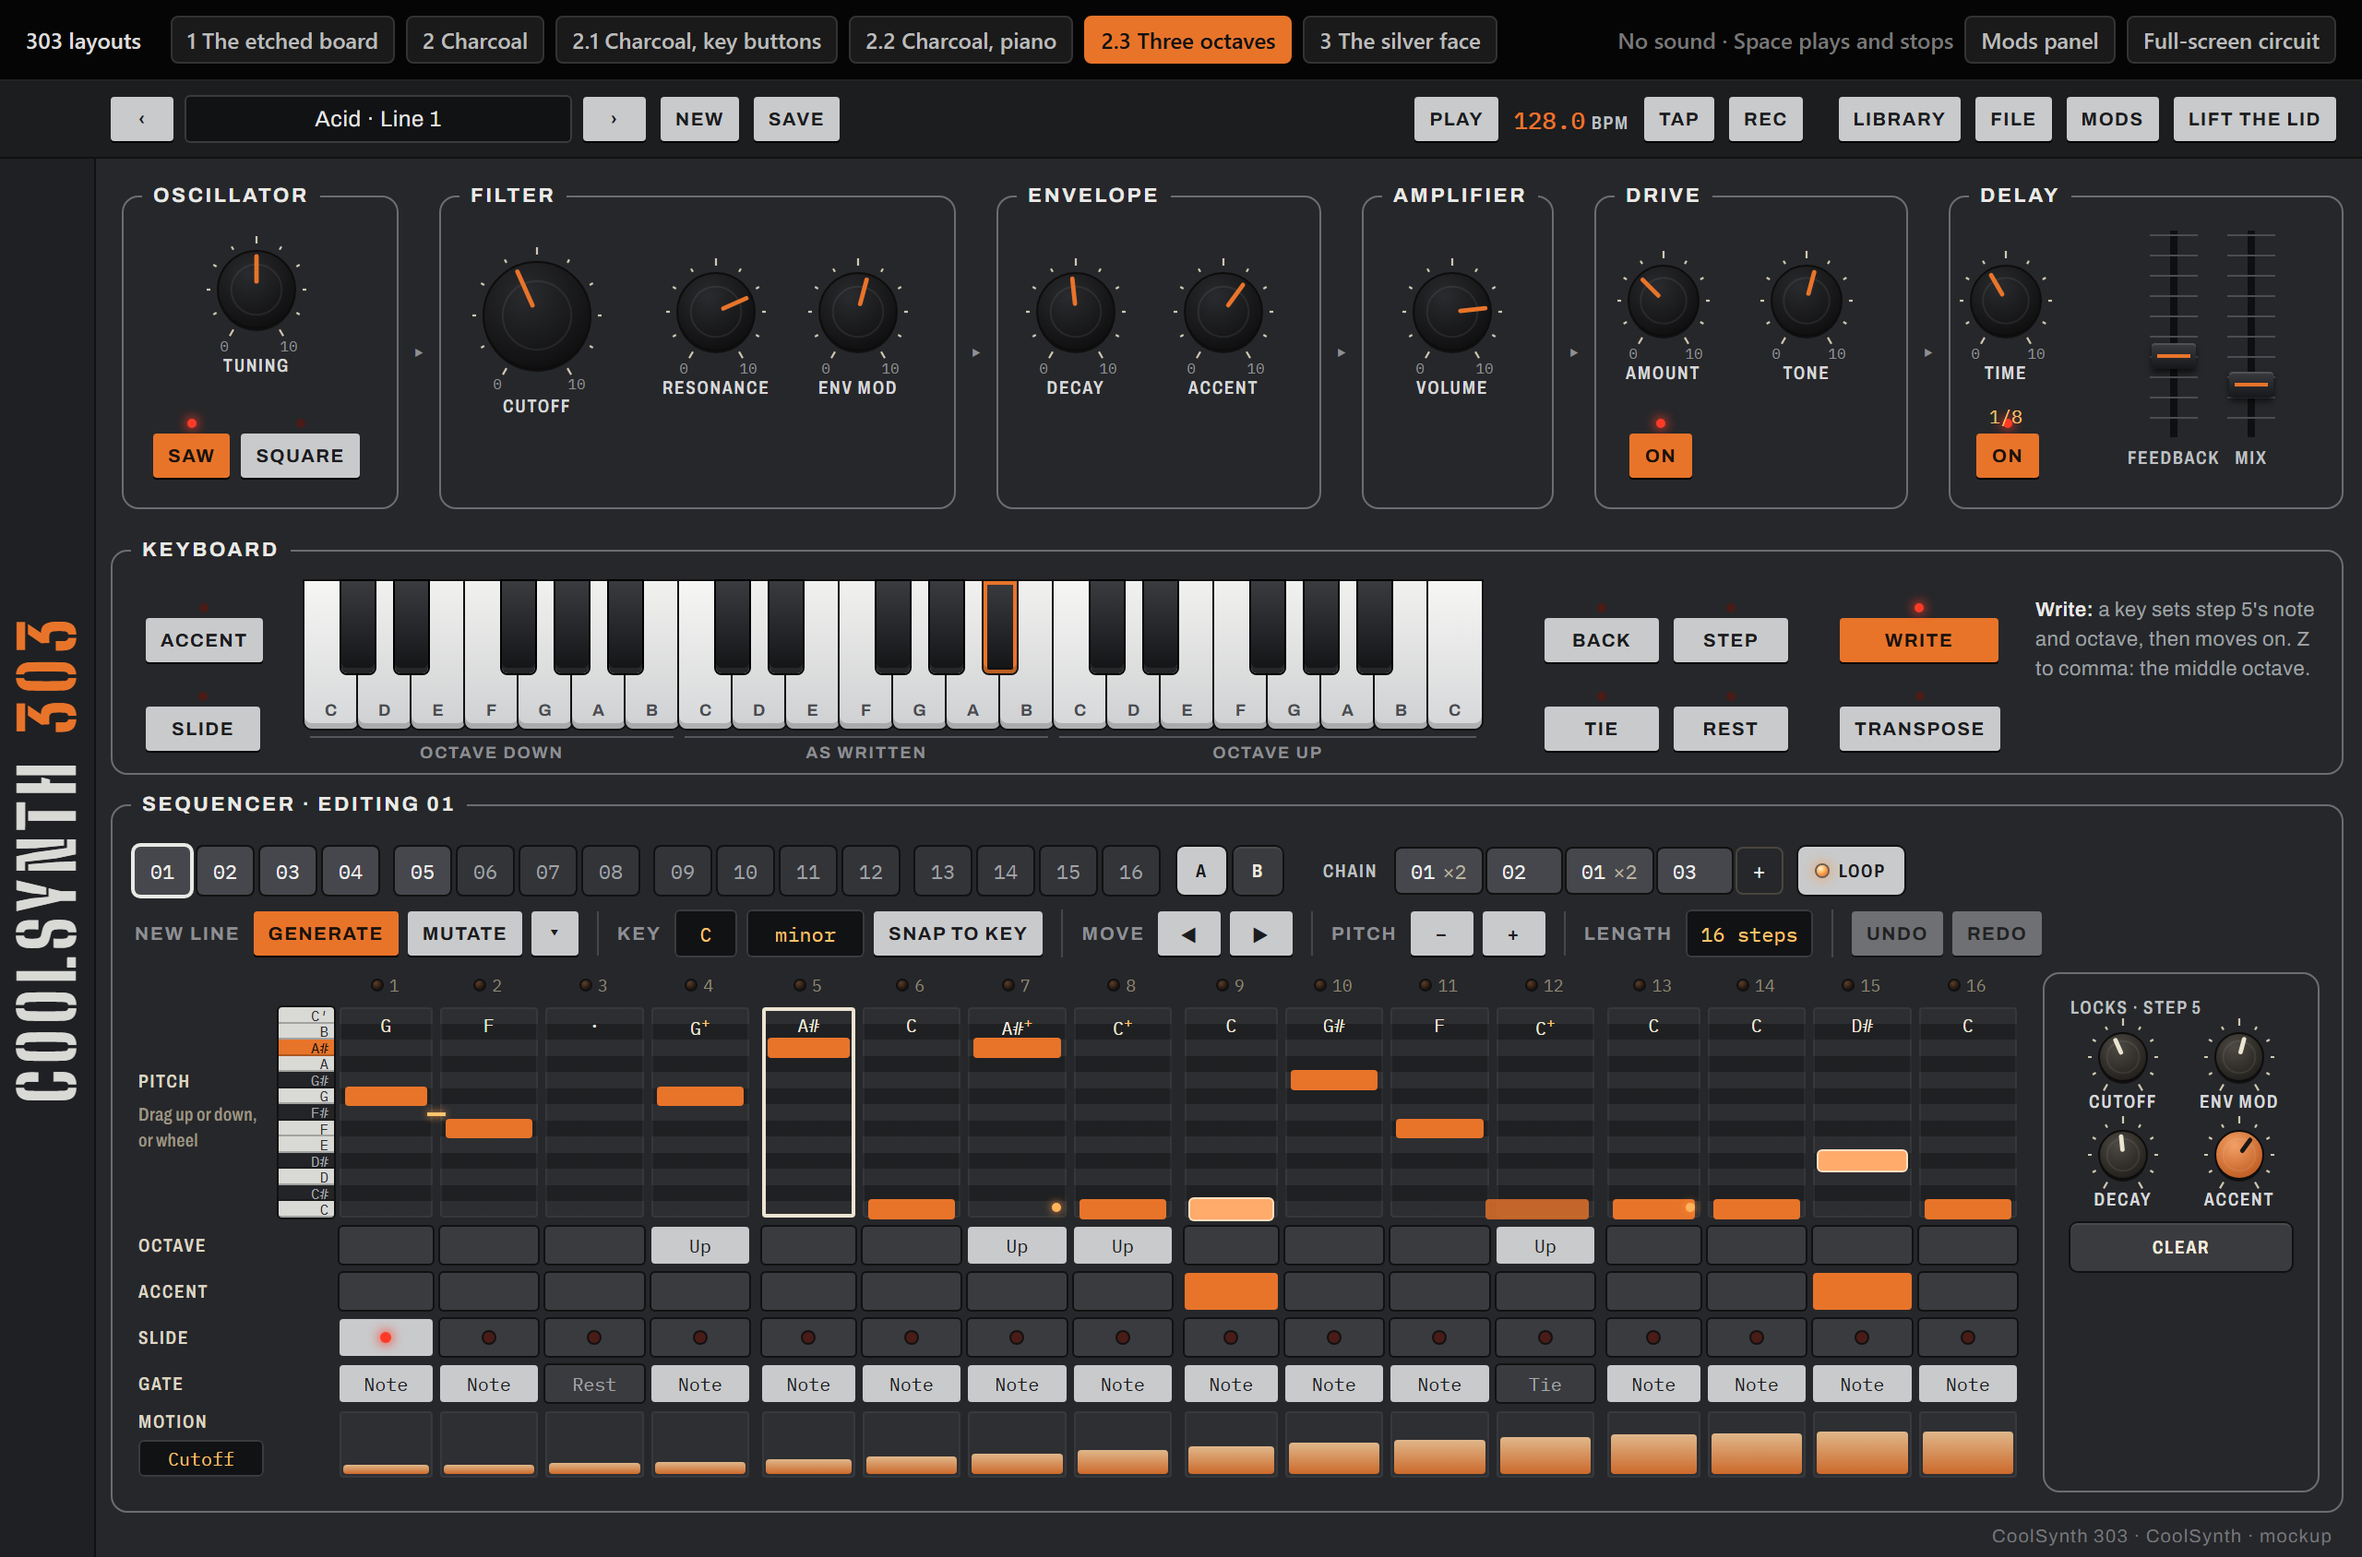
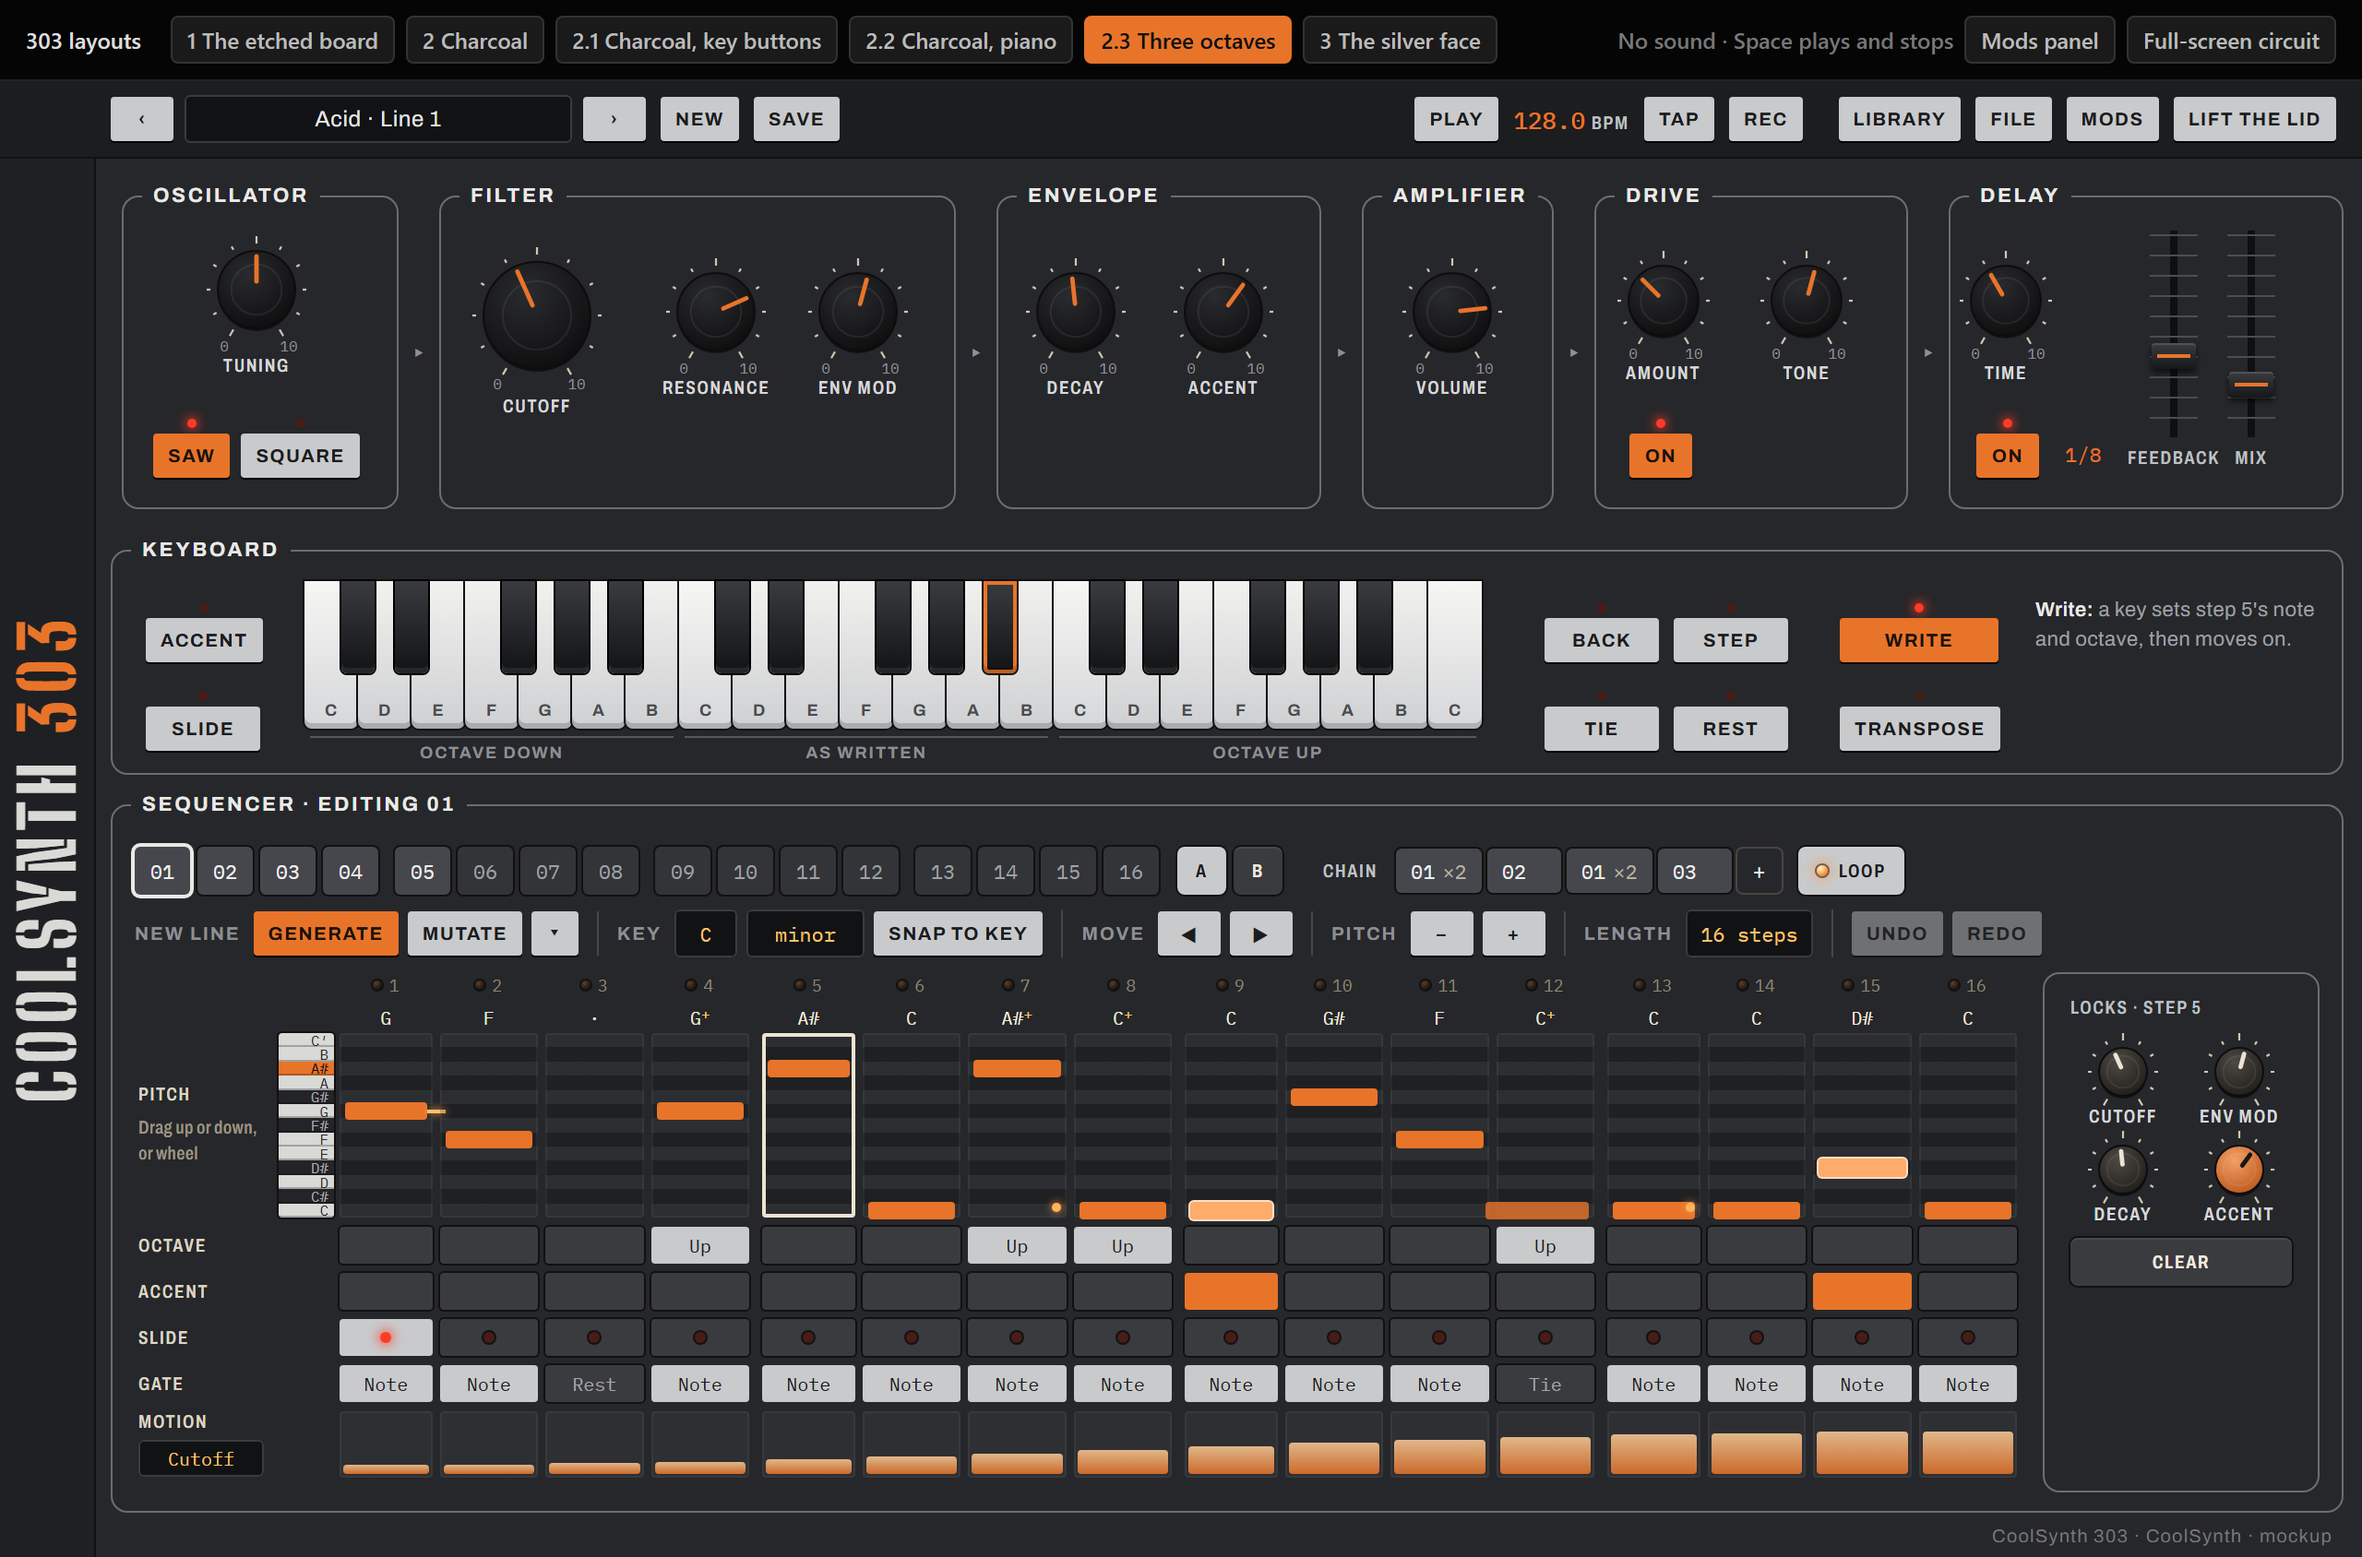
CoolSynth 303 mockup: 2.3's misplaced text and the overlapping lamp fixed
The delay's time value sat on its On lamp: it now sits beside the key. Each step's note name moved out of the
pitch lane's top row into a row of its own; the slide mark sits at the note's height; the locks title clears its
knobs; the keyboard's hint is one sentence. Found from the screenshots at the user's request.

diff --git a/docs/design/mockups/coolsynth-303-layouts.html b/docs/design/mockups/coolsynth-303-layouts.html
@@ -302,7 +302,14 @@ canvas.board { display: block; position: absolute; }
 .tal .piano.three .pw.oc { background: linear-gradient(#f6f6f4, #d6d7d9); }
 .tal .octcap { position: absolute; font-size: 9px; font-weight: 700; letter-spacing: .1em; text-transform: uppercase; color: #8c8e93; text-align: center;
   border-top: 1px solid #55575c; padding-top: 3px; }
+.tal .tval { font-family: var(--mono); font-size: 11px; color: #e8742a; }
 #v6 .main { grid-template-columns: 1fr 150px; }
+#v6 .side .tknobs { margin-top: 8px; }
+#v6 .pcol .nn { display: none; }
+.tal .nrow { margin-bottom: -3px; }
+.tal .nrow span { text-align: center; font-family: var(--mono); font-size: 10px; color: #f1ebde; line-height: 12px; height: 12px; }
+.tal .nrow span sup { font-size: 8px; color: var(--lit); vertical-align: 0; position: relative; top: -3px; line-height: 0; }
+.tal .nrow span.off { opacity: .35; }
 #v6 .grid { grid-template-columns: 108px 1fr; }
 #v6 .side .tknobs { display: grid; grid-template-columns: 1fr 1fr; gap: 10px 6px; justify-items: center; }
 .tal .pnames { position: relative; width: 30px; flex: none; align-self: stretch; margin-left: auto; border-radius: 2px; overflow: hidden; box-shadow: 0 0 0 1px #111; }
@@ -796,8 +803,14 @@ function buildGrid(host, rowH = 22, pitchH = 150, motionH = 40, names = false) {
   }
   const plbl = el('div', '', '<div class="lbl" style="color:#ddd5c3">Pitch</div><div class="lbl" style="margin-top:6px;text-transform:none;letter-spacing:.02em;line-height:1.4;color:#9d9583">Drag up or down,<br>or wheel</div>');
   // 2.3: the lane's notes down its left edge, as a piano roll's keys; the picked step's note lit
-  let nameCells = null;
+  let nameCells = null, nrowCells = null;
   if (names) {
+    // each step's note and octave in a row of its own above the lane, out of the lane's top row
+    const nrow = el('div', 'cols16 nrow'); nrowCells = [];
+    for (let i = 0; i < 16; i++) { const s = el('span', ''); nrowCells.push(s); nrow.append(s); }
+    host.append(el('div', 'rl'), nrow);
+    painters.push(() => { const p = shown(); nrowCells.forEach((s, i) => { const x = p.steps[i];
+      s.innerHTML = x.g === 'rest' ? '·' : NAMES[x.n12 ? 12 : x.n] + (x.n12 ? '′' : '') + (x.o > 0 ? '<sup>+</sup>' : x.o < 0 ? '<sup>−</sup>' : ''); s.classList.toggle('off', i >= p.len); }); });
     const wrap = el('div', ''); wrap.style.cssText = 'display:flex;align-self:stretch;width:100%;gap:6px';
     const strip = el('div', 'pnames'); nameCells = [];
     for (let n = 0; n <= 12; n++) { const s = el('span', [1, 3, 6, 8, 10].includes(n) ? 's' : '', NAMES[n] + (n === 12 ? '′' : '')); s.style.bottom = `calc(${n} * 100% / 13)`; nameCells.push(s); strip.append(s); }
@@ -837,6 +850,8 @@ function buildGrid(host, rowH = 22, pitchH = 150, motionH = 40, names = false) {
     cols.forEach((c, i) => {
       const x = p.steps[i];
       c.querySelector('.cap').style.bottom = `calc(${(x.n12 ? 12 : x.n) / 13 * 100}% - 1px)`;
+      // the slide's mark at the note's own height, leading to the next step
+      { const sl = c.querySelector('.sl'); sl.style.top = 'auto'; sl.style.bottom = `calc(${((x.n12 ? 12 : x.n) + .5) / 13 * 100}% - 1px)`; }
       c.querySelector('.nn').innerHTML = x.g === 'rest' ? '·' : NAMES[x.n12 ? 12 : x.n] + (x.o > 0 ? '<sup>+</sup>' : x.o < 0 ? '<sup>−</sup>' : '');
       c.classList.toggle('acc', x.a); c.classList.toggle('slide', x.s && x.g !== 'rest');
       c.classList.toggle('tie', x.g === 'tie'); c.classList.toggle('rest', x.g === 'rest');
@@ -1196,7 +1211,9 @@ function build2(vid = 'v2') {
   const s6 = sect('Delay', 996, 214);
   at(s6, talBtn('On', 'delayOn'), 14, 120);
   const times = ['1/16', '1/8', '3/16', '1/4'];
-  at(s6, kt('Time', 'time', 40, { live: false, fmt: v => times[Math.round(v * 3)] }), 10, 36);
+  at(s6, kt('Time', 'time', 40, { live: false }), 10, 36);
+  // the time's note value beside the On key, clear of its lamp
+  { const tv = el('span', 'tval'); tv.title = 'The delay\'s time, in notes'; at(s6, tv, 62, 132); painters.push(() => { tv.textContent = times[Math.round(S.k.time * 3)]; }); }
   at(s6, fader('Feedback', 'fb'), 96, 18); at(s6, fader('Mix', 'mix'), 150, 18);
   new Board($('b' + vid.slice(1)), rowLayout(20, 1190, 24, 166, true), 'etchedDark', { visible: () => root.classList.contains('lifted') });
   buildMods($(vid + 'mods'), 'tal');
@@ -1218,7 +1235,7 @@ function talMarkup(vid, kind) {
     <div class="row"><div data-prow></div><div data-ab></div><span class="lbl" style="margin-left:12px">Chain</span><div data-chain></div></div>
     <div data-tools2></div>
     <div class="main">${kind === 'three'
-      ? '<div data-grid="114" data-rowh="20" data-motion="36" data-names></div><div class="side" data-side="locks"></div>'
+      ? '<div data-grid="100" data-rowh="20" data-motion="36" data-names></div><div class="side" data-side="locks"></div>'
       : '<div data-grid="114" data-rowh="20" data-motion="36"></div><div class="side" data-side="compact"></div>'}</div>
   </div>
   <div class="foot">CoolSynth 303 · CoolSynth · mockup</div>`;
@@ -1370,7 +1387,8 @@ function buildKeys3(vid) {
     write.classList.toggle('is', !S.transposeMode); trans.classList.toggle('is', S.transposeMode);
     note.innerHTML = S.transposeMode
       ? `<b>Transpose:</b> a key shifts the running pattern; the middle C plays it as written.`
-      : `<b>Write:</b> a key sets step ${S.pick + 1}'s note and octave, then moves on. Z to comma: the middle octave.`;
+      : `<b>Write:</b> a key sets step ${S.pick + 1}'s note and octave, then moves on.`;
+    note.title = 'The computer\'s keys Z to comma play the middle octave';
     const sounding = S.playing ? heard().steps[S.count % heard().len] : null;
     keys.forEach(key => {
       const k = +key.dataset.k;
